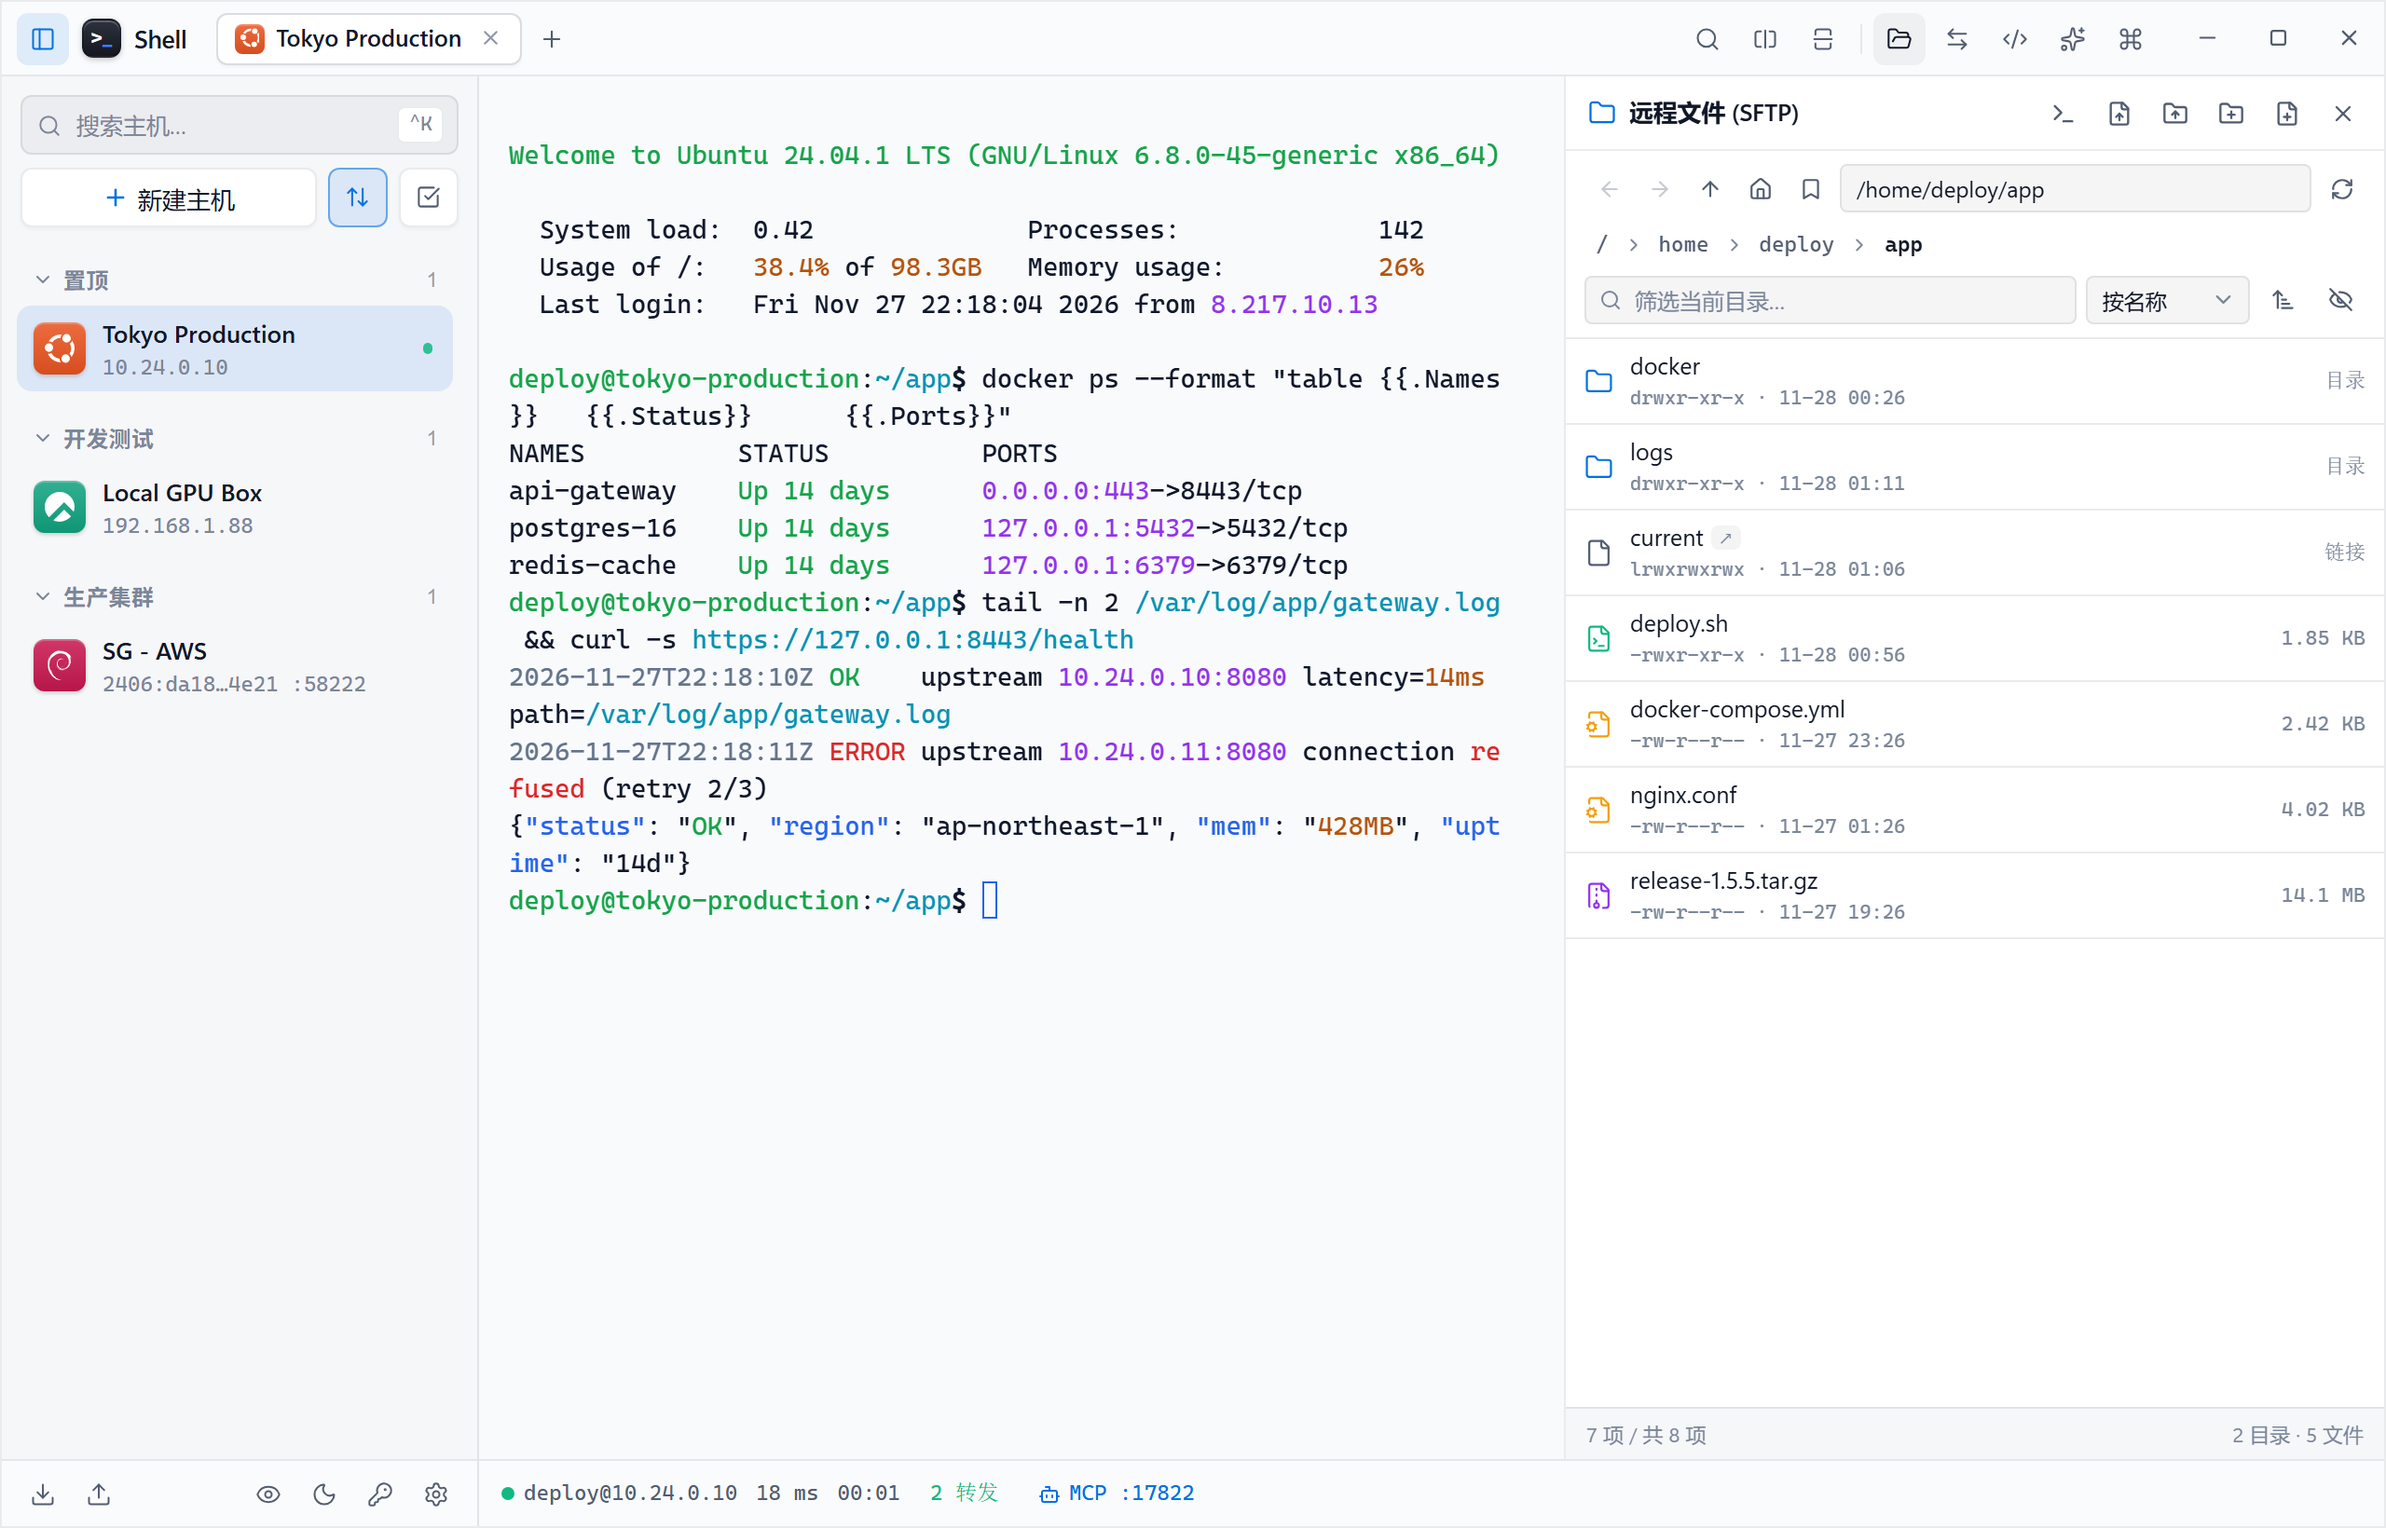
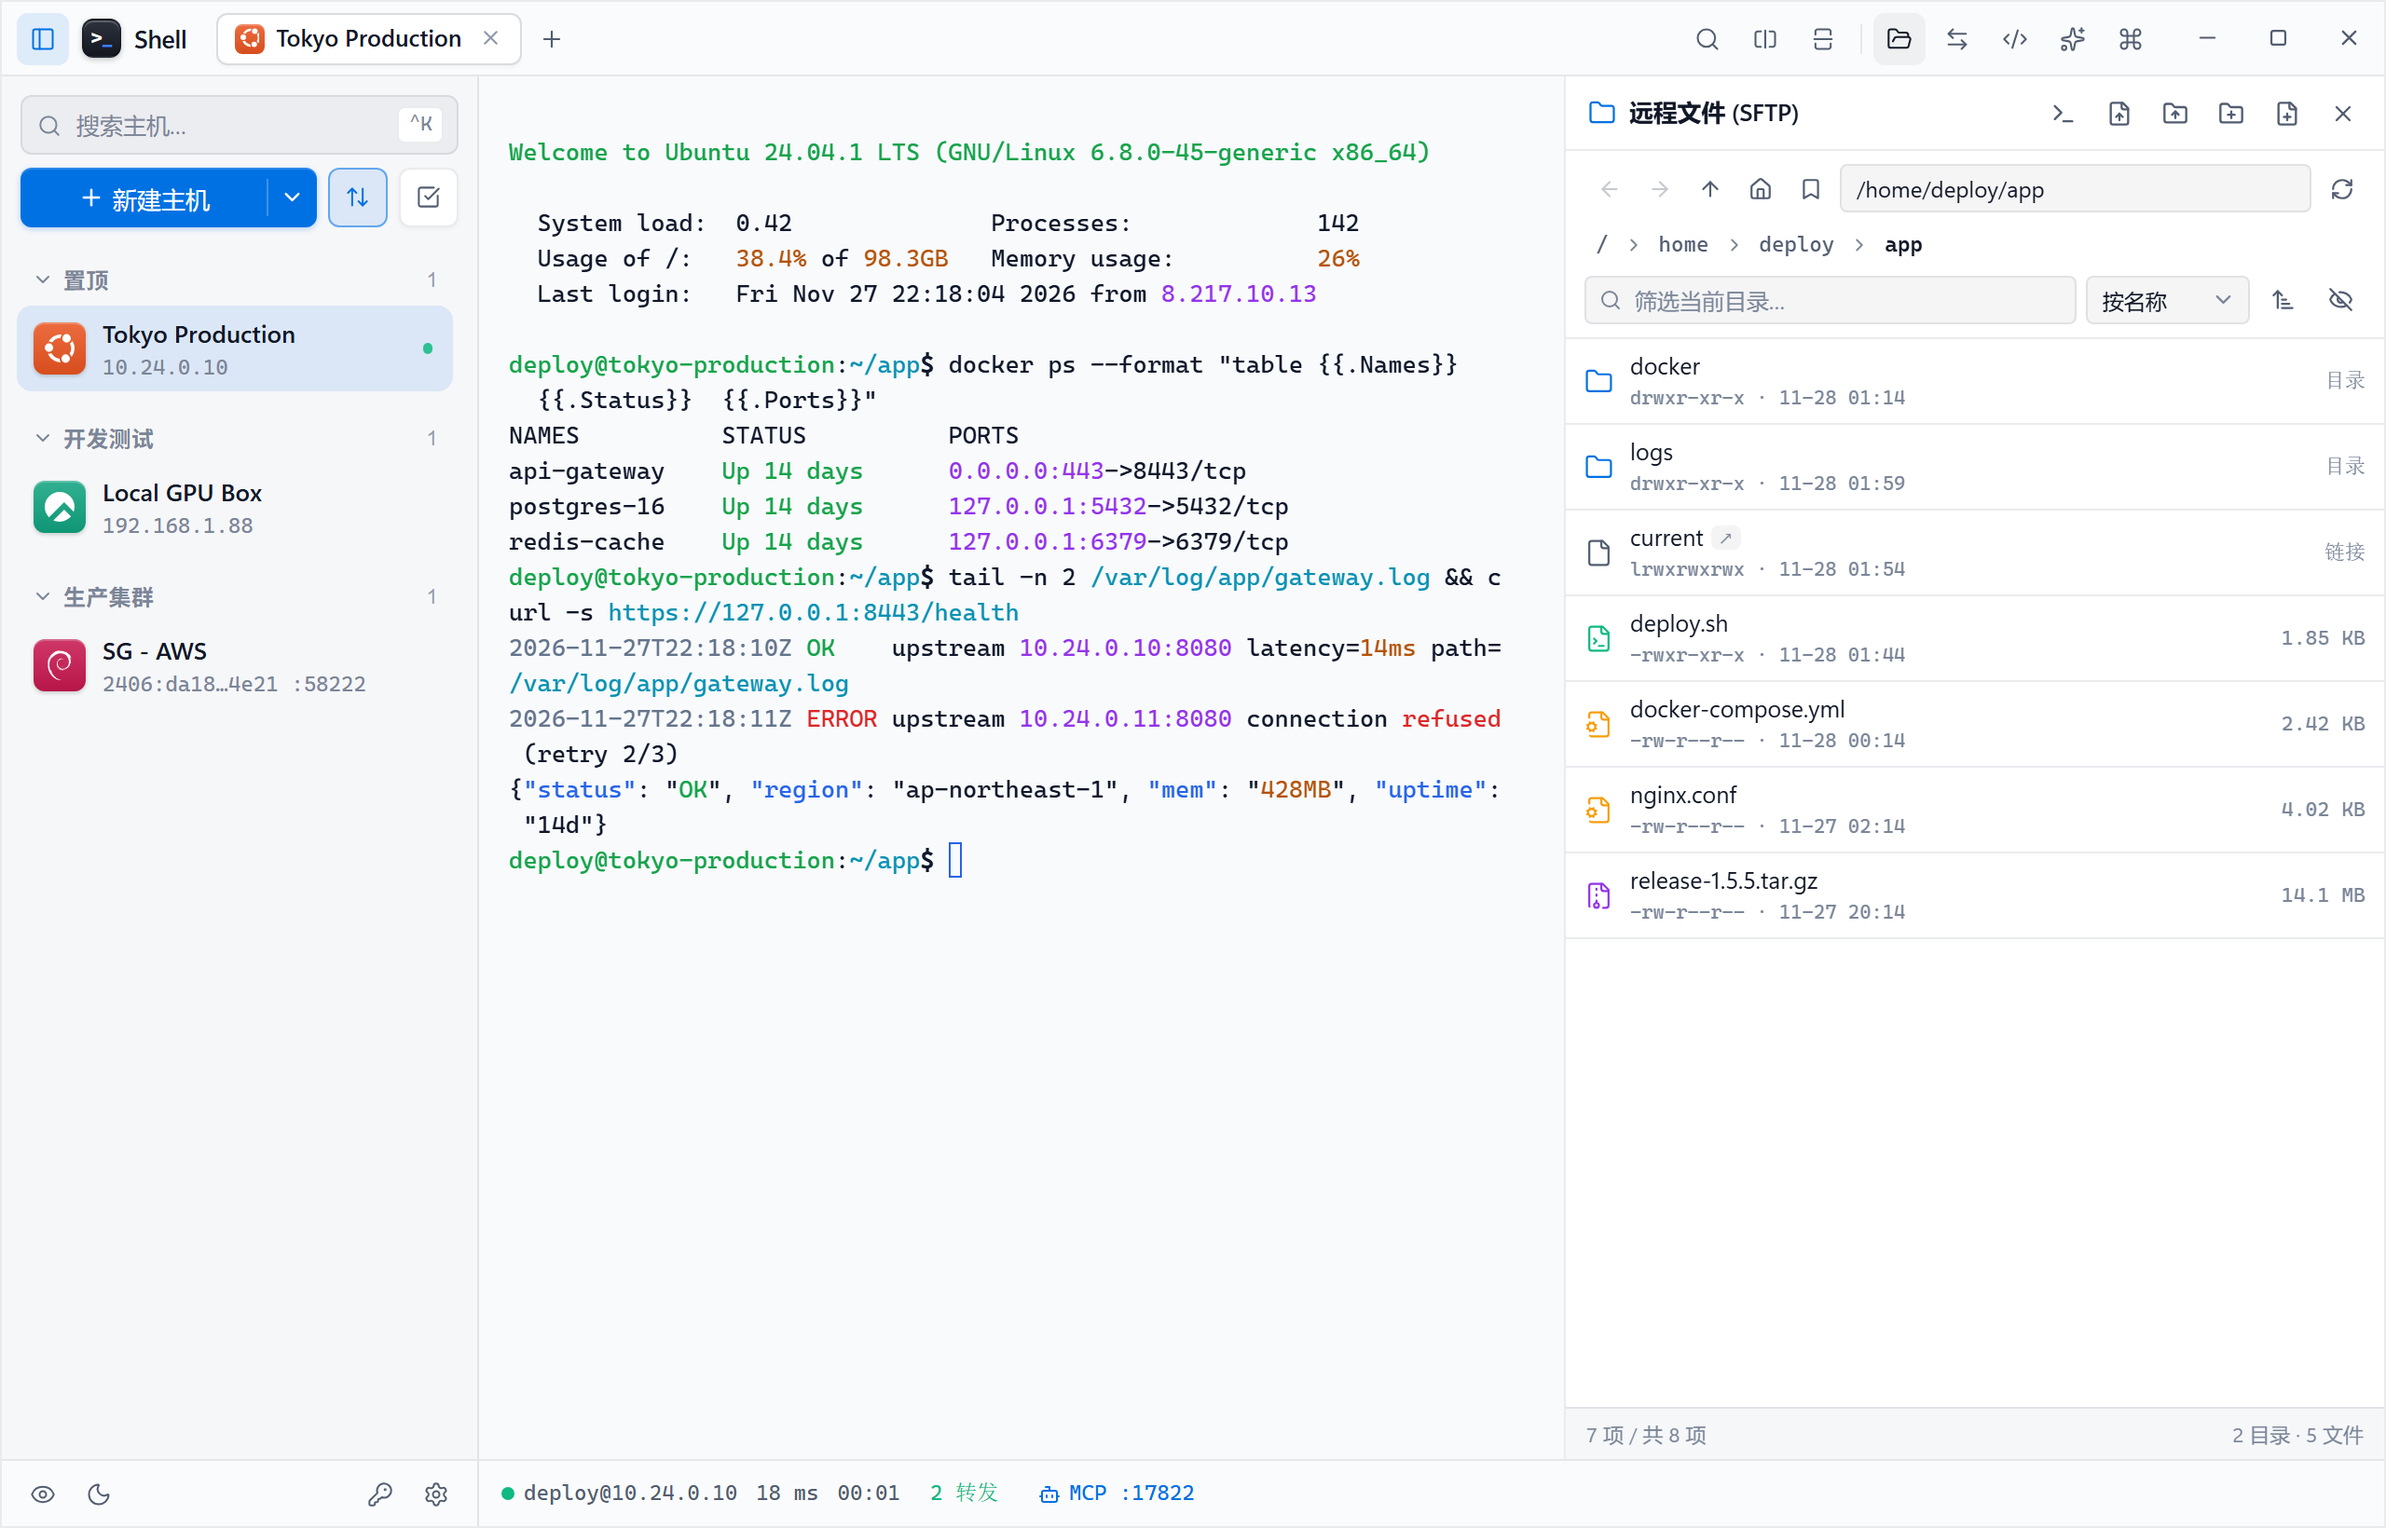
chore(release): 发布 v1.5.7
- 更新前端版本与锁文件至 1.5.7
- 补充 CHANGELOG.md v1.5.7 更新日志并清理历史文案
- 刷新 README 文档截图（浅色工作台、深色终端、SFTP 抽屉）

Changed region(s): [[0.2188, 0.0933, 0.625, 0.5909], [0.0, 0.0933, 0.1562, 0.1555], [0.5, 0.5287, 0.5312, 0.5598]]

diff --git a/CHANGELOG.md b/CHANGELOG.md
@@ -2,6 +2,17 @@
 
 本项目的版本变更遵循 [语义化版本 2.0.0](https://semver.org/lang/zh-CN/) 规范。
 
+## [1.5.7] - 2026-11-28
+
+### 全量 CSV 导出与侧边栏交互升级
+- **兼容 Netcatty / Termius 的全量 CSV 主机导出**：新增标准 CSV 导出引擎，完整保留主机、端口、用户名、分组、系统图标、代理与跳板机配置，默认支持通过底部「包含密码」开关导出已保存密码与私钥口令（取消勾选时自动脱敏）；导出弹窗升级为极简顶栏分段切换（`CSV` / `OpenSSH`），移除冗余说明文字并保持固定尺寸。
+- **分裂式「新建主机」按钮与精简侧栏底栏**：将侧边栏顶部「新建主机」按钮升级为亮蓝色主按钮与右侧下拉箭头组合，收拢「导入配置」与「导出主机」菜单入口，底栏精简为更均衡克制的图标组。
+
+### 全局配色引擎与界面打磨
+- **全局五套精选配色与零闪烁持久化**：将「终端配色」升级为覆盖侧边栏、顶栏、弹窗、终端与远端代码编辑器的「全局配色」，提供「跟随界面外观」及 5 套精选方案（3 套深色：`曜石深黑`、`东京夜色`、`摩卡暮紫`；2 套浅色：`极简浅白`、`暖纸米白`）；外观与配色偏好在本地同步缓存并于首屏绘制前即时生效，重启或升级后零白屏闪烁。
+- **主机弹窗纯色系统图标与分组下拉组合框**：主机编辑弹窗操作系统图标选择器同步升级为纯色饱满圆角图标砖；「分组」字段升级为带毛玻璃质感的自定义可搜索下拉组合框（`ComboBox`），替代系统原生列表并支持键盘导航与 `Esc` 独立关闭。
+- **默认字号与文案优化**：将默认终端字号校准为 `13 px`（`Ctrl+0` 同步重置为 `13 px`），并将界面中的主机地址隐藏开关文案精简为「隐藏主机 IP」。
+
 ## [1.5.6] - 2026-11-28
 
 ### 深色视觉与材质层次
@@ -71,12 +82,12 @@
 - **分屏窗格独立拆分为标签页**：支持通过分屏窗格顶部小栏按钮、窗格右键菜单或分屏标签右键菜单将任意子窗格「移出为独立标签页」，无缝复用底层终端实例并完整保留滚动历史；优化分屏标签展示，自动呈现分屏图标、组合主机名与窗格数量标记。
 - **批量管理新增批量分组**：移除侧边栏批量管理栏中冗余的导出按钮，新增「分组」操作弹窗，支持将已勾选的多台主机一键移入已有分组、即时新建分组或移出分组（恢复默认）。
 - **主机导出统一与主机弹窗高度校准**：简化主机导出弹窗，移除多余格式下拉切换，统一导出为通用标准 OpenSSH 配置文件（保持 `440×432` 固定窗口尺寸与全选/单选交互）；适度增加新建/编辑主机弹窗高度（`min(620px, calc(100vh - 44px))`），在常规窗口尺寸下完整显示「标记颜色」与「置顶显示」选项且双页签高度保持一致。
-- **极简在线指示与零抖动 IP 隐私隐藏**：移除顶部会话标签绿色底条、侧边栏左侧竖条及「在线」文字徽标，改用侧边栏右侧克制的 5.5px 在线圆点（悬停显示快捷操作时平滑隐退）与安静清爽的已连接标签外观；重构「隐藏主机 IP（隐私模式）」，开启后直接隐藏 IP 与端口且不在 DOM 中留存明文地址（不再使用占位圆点），配合锁定行高/卡片高度与 180ms 平滑过渡动画实现无闪烁、无布局跳动的纯净隐私展示。
+- **极简在线指示与零抖动 IP 隐私隐藏**：移除顶部会话标签绿色底条、侧边栏左侧竖条及「在线」文字徽标，改用侧边栏右侧克制的 5.5px 在线圆点（悬停显示快捷操作时平滑隐退）与安静清爽的已连接标签外观；重构「隐藏主机 IP」，开启后直接隐藏 IP 与端口且不在 DOM 中留存明文地址（不再使用占位圆点），配合锁定行高/卡片高度与 180ms 平滑过渡动画实现无闪烁、无布局跳动的纯净隐私展示。
 
 ## [1.5.0] - 2026-11-27
 
 ### 隐私保护与视觉重构
-- **主机 IP 隐私模式**：新增持久化的「隐藏主机 IP（隐私模式）」开关，可通过侧边栏底栏眼睛图标或「偏好设置 → 外观与终端」一键切换。开启后，主机侧栏、欢迎页最近使用、标签悬停提示、分屏顶栏、状态栏、全局命令面板及主机导出清单中的 IPv4、IPv6、域名与自定义端口均自动掩码隐藏（保留一键复制真实地址能力），便于屏幕共享、演示与截图。
+- **隐藏主机 IP**：新增持久化的「隐藏主机 IP」开关，可通过侧边栏底栏眼睛图标或「偏好设置 → 外观与终端」一键切换。开启后，主机侧栏、欢迎页最近使用、标签悬停提示、分屏顶栏、状态栏、全局命令面板及主机导出清单中的 IPv4、IPv6、域名与自定义端口均自动掩码隐藏（保留一键复制真实地址能力），便于屏幕共享、演示与截图。
 - **深色黑曜石品牌图标**：重新调校桌面可执行文件、任务栏、系统托盘、标题栏与「关于 Shell」页面的 `>_` 品牌图标为深石墨黑曜石圆角渐变与纯白/亮蓝提示符，并加入高对比度微光金属内描边，确保在浅色与深色桌面环境下均清晰醒目。
 - **无遮挡在线状态指示**：彻底移除叠加在系统发行版图标右下角的绿色圆点，避免遮挡系统图标；改用侧边栏左侧翠绿状态竖条搭配行内「在线」标签（悬停显示快捷操作时平滑隐藏），顶部会话标签同步升级为底部 2px 状态细条，连接中、已连接与已断开状态一目了然。
 

diff --git a/README.md b/README.md
@@ -52,7 +52,7 @@
 ### 终端与工作区
 - **低延迟终端引擎与连接诊断**：基于本机回环二进制 WebSocket 直通数据流（`TCP_NODELAY`、空闲零延迟即时回显与突发帧合并）和 xterm.js v6，自动协商 `COLORTERM=truecolor`，支持 Unicode 11 宽字符、URL 点击打开、OSC 7 工作目录追踪、静默无弹窗选区复制及可选 WebGL 硬件渲染；内置与外框无缝融合的校准深浅色终端主题（Termius Dark `#1C2028`）与基于 VT100/ANSI 状态机的终端实时语法高亮（自动着色提示符、IPv4、URL、JSON 键名、日志级别、路径与度量单位，兼容全屏 TUI 与已有 ANSI 色彩，可按需开关）；连接过程实时呈现内联步骤追踪（跳板机 / 建连 / 认证 / 会话就绪），失败时提供中文错误诊断、原始错误详情及一键重连/编辑配置。
 - **多窗分屏、拖拽编排与独立拆分**：支持单标签内任意递归水平 / 垂直分屏（分屏时可选择已保存主机、当前主机或新建连接）、拖拽调节分屏比例、直接拖拽已连接会话标签或侧栏在线主机至目标终端边缘重排布局，支持将任意分屏子窗格一键「移出为独立标签页」并完整保留终端滚动历史，以及多窗格广播输入。
-- **零抖动隐私模式与克制状态指示**：侧边栏底栏与偏好设置内置一键 **隐藏主机 IP（隐私模式）** 开关，开启后直接隐藏所有界面的 IP 与端口（不留明文 DOM、无占位圆点、锁定行高平滑过渡零跳动，适合演示、录屏与截图）；侧边栏以右侧极简圆点低调提示在线状态，已连接标签页保持干净克制。
+- **零抖动隐藏主机 IP 与克制状态指示**：侧边栏底栏与偏好设置内置一键 **隐藏主机 IP** 开关，开启后直接隐藏所有界面的 IP 与端口（不留明文 DOM、无占位圆点、锁定行高平滑过渡零跳动，适合演示、录屏与截图）；侧边栏以右侧极简圆点低调提示在线状态，已连接标签页保持干净克制。
 - **高效交互与窗口持久化**：支持标签右键复制会话、向右/向下分屏、移出子窗格与关闭其他标签，`Ctrl+1..9` / `Ctrl+Tab` 切换标签，`Ctrl+Shift+F` 终端内正则搜索，`Ctrl+K` 全局命令面板；自动记忆上次窗口尺寸与最大化状态并自适应窗口缩放。
 - **系统托盘**：支持关闭窗口时最小化至 Windows 系统托盘以保持端口转发与 MCP 服务后台运行；左键单击唤起主窗口，托盘右键菜单精简为「断开全部会话」与「退出 Shell」。
 
